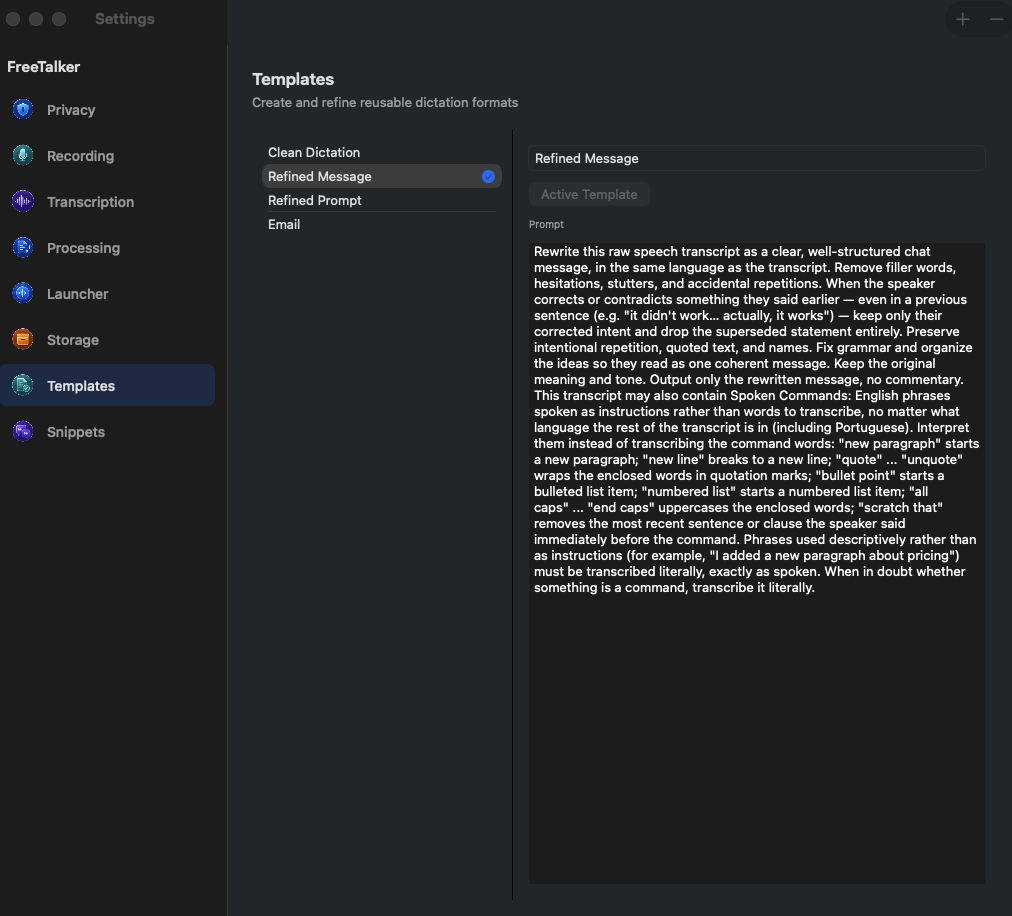
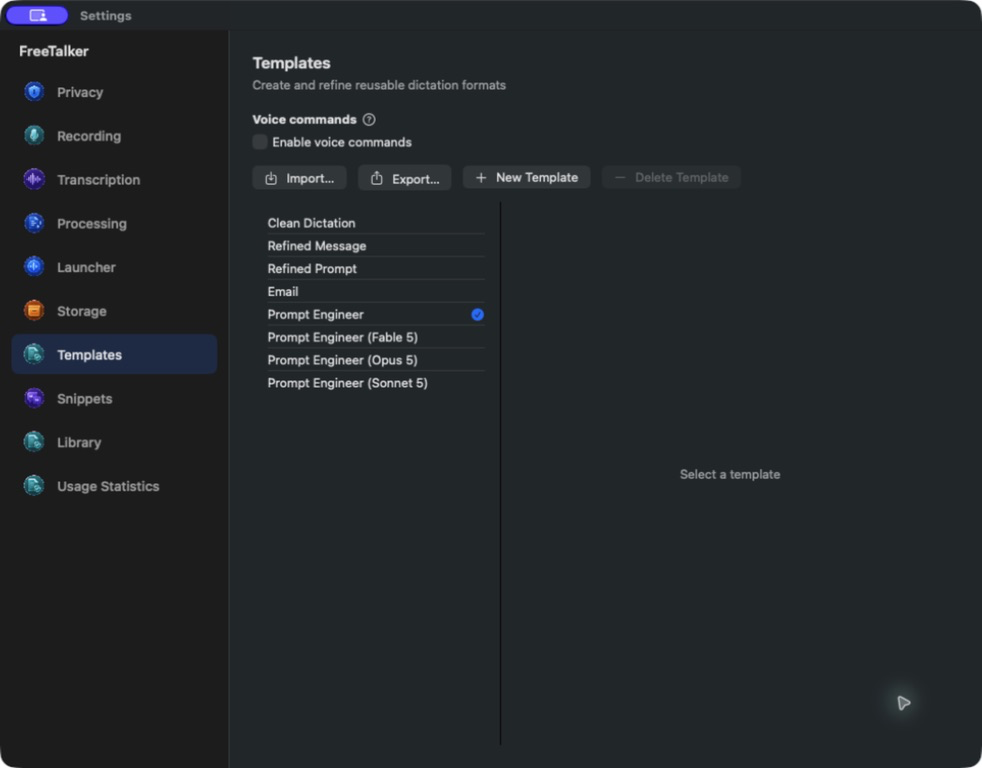
wip(docs): README rewording and refreshed settings screenshots
Uncommitted work found in the superconductor worktree
(~/.superconductor/worktrees/freetalker/sc-quantum-helium-b253), last touched
30 July: README.md reworded (21 insertions, 18 deletions) and five settings
screenshots regenerated.

Committed so the worktree could be removed without destroying it. Not merged
and not reviewed — its branch docs/app-settings-documentation was already
merged as PR #27, so this is work that came after and stopped.

Claude-Session: https://claude.ai/code/session_01PLr5Fpmmsx7AArRSA85K7a

diff --git a/README.md b/README.md
@@ -143,7 +143,7 @@ cleanup can't remove the model currently serving dictation. WhisperKit shares mo
 under `~/Documents/huggingface`.
 
 <p align="center">
-  <img src="docs/screenshots/settings-transcription.png" alt="Settings > Transcription showing the mic picker, noise reduction, WhisperKit vs Cloud engine toggle, model list, live preview, and vocabulary" width="700">
+  <img src="docs/screenshots/settings-transcription.png" alt="Settings > Transcription showing microphone and noise controls, the WhisperKit versus Cloud engine toggle, dictation languages, and the speech model list" width="700">
 </p>
 
 ## Permissions walkthrough
@@ -175,7 +175,7 @@ FreeTalker from the relevant Privacy & Security list, add the current app
 bundle again, enable it, and relaunch.
 
 <p align="center">
-  <img src="docs/screenshots/settings-privacy.png" alt="Settings > Privacy showing granted permissions and the local-only text context picker" width="700">
+  <img src="docs/screenshots/settings-privacy.png" alt="Settings > Privacy showing granted permissions, Permission Diagnosis, and the local-only Text context picker" width="700">
 </p>
 
 ## Settings
@@ -254,8 +254,8 @@ explanation; the same explanation is available as a hover tip.
   <img src="docs/screenshots/recording-hud.png" alt="FreeTalker recording HUD during hands-free recording, showing elapsed time, lock, context, cancel/done, Raw, language selectors, and active template" width="600">
 </p>
 
-- Menu bar icon → pick the **Active Template** (Clean Dictation, Refined Message, Refined
-  Prompt, Email — editable in Settings → Templates).
+- Menu bar icon → pick the **Active Template** (including Clean Dictation, Refined Message,
+  Refined Prompt, Email, and the Prompt Engineer variants — editable in Settings → Templates).
 - Hold **Right-⌥**, speak (English or Portuguese, auto-detected), release. A small pill HUD
   shows "Recording…" then "Processing…". Turn on **Live preview while recording** in
   Settings → Transcription and the HUD streams the transcript as you speak,
@@ -308,9 +308,10 @@ be explicitly resolved (English, via the language pin or an App Rule) at the mom
 recording; leaving language on **Auto** never streams, since there's no known language to type in
 yet. Cloud STT, Scratchpad dictation, and secure fields (password inputs) don't stream either —
 all of these fall back silently to today's batch behavior: no partial typing, refined text pasted
-once you stop, unchanged from before this feature existed. Tapping a one-shot **EN**/**PT**
-language override on the Recording Panel mid-recording also falls back to batch for the rest of
-that Recording, rather than trying to restart streaming under the new language.
+once you stop, unchanged from before this feature existed. Choosing a one-shot **English** or
+**Portuguese** language override from the **Speak** menu on the Recording Panel mid-recording
+also falls back to batch for the rest of that Recording, rather than trying to restart
+streaming under the new language.
 
 Safety comes first. Streaming only starts when the focused field has an empty, collapsed cursor —
 never over a selection, since typing over one would silently destroy it with no way to restore it
@@ -368,16 +369,18 @@ instead of replacing newer edits.
 
 ## Templates
 
-Four built-ins ship with the app: **Clean Dictation** (default), **Refined Message**,
-**Refined Prompt**, and **Email**. Every Template strips disfluencies ("um", "uh", "hmm") and
-collapses self-corrections — "I'll do A… actually, I'll do B" becomes "I'll do B" — even when
-the correction spans multiple sentences.
+Eight built-ins ship with the app: **Clean Dictation** (default), **Refined Message**,
+**Refined Prompt**, **Email**, **Prompt Engineer**, **Prompt Engineer (Fable 5)**,
+**Prompt Engineer (Opus 5)**, and **Prompt Engineer (Sonnet 5)**. The four general-purpose
+dictation templates strip disfluencies ("um", "uh", "hmm") and collapse self-corrections —
+"I'll do A… actually, I'll do B" becomes "I'll do B" — even when the correction spans multiple
+sentences.
 
 A built-in Template you've never edited quietly picks up improved prompts as the app evolves;
 once you edit one yourself, it's yours and is never touched automatically.
 
 <p align="center">
-  <img src="docs/screenshots/settings-templates.png" alt="Settings > Templates showing the template list and the Refined Message prompt editor" width="700">
+  <img src="docs/screenshots/settings-templates.png" alt="Settings > Templates showing the Voice commands toggle, Import, Export, New Template, and Delete Template controls, plus eight built-in templates" width="700">
 </p>
 
 ### Spoken Commands
@@ -427,7 +430,7 @@ post-processing requests; when cloud post-processing is configured, FreeTalker o
 ### Voice Edit and snippets
 
 <p align="center">
-  <img src="docs/screenshots/settings-recording.png" alt="Settings > Recording showing the push-to-talk hold key, Insert Last Dictation key, Voice Edit key, and hands-free auto-stop cap" width="700">
+  <img src="docs/screenshots/settings-recording.png" alt="Settings > Recording showing the push-to-talk, Insert Last Dictation, Voice Edit, Dictation History, and Correct Last Dictation keys, correction watcher, and hands-free auto-stop cap" width="700">
 </p>
 
 Assign a **Voice Edit key** in Settings → Recording, select editable text, and
@@ -529,9 +532,9 @@ Limitations, plainly:
 The menu bar has an **Auto / English / Portuguese** pin below the Template list,
 forcing the transcript language instead of auto-detecting it. Settings →
 Processing → **App Rules** can override the pin per app, alongside
-its Template rule. The Recording Panel's EN/PT buttons (below) add a one-shot
-override on top of both, good for a single dictation without changing any
-standing setting. Precedence, most to least specific: **one-shot > app rule >
+its Template rule. The Recording Panel's **Speak** menu (below) adds a one-shot
+language override on top of both, good for a single dictation without changing
+any standing setting. Precedence, most to least specific: **one-shot > app rule >
 pin > auto**.
 
 ## Recording Panel
@@ -544,8 +547,8 @@ of a plain pill:
 - **Raw** stops and pastes the transcript verbatim, skipping post-processing entirely; the
   Library entry is filed under the reserved Template name "Raw Transcript" rather than whatever
   Template was active.
-- **EN** / **PT** set a one-shot language override for this recording only (tap the active one
-  again to clear it) — see "Language" above for how it fits with the pin and App Rules.
+- The **Speak** menu sets a one-shot language override for this recording only (choose **Auto**
+  to clear it) — see "Language" above for how it fits with the pin and App Rules.
 - The Template name button cycles the Active Template without leaving the recording.
 - **Lock** (only shown while not already locked) switches a held push-to-talk key into
   hands-free recording without releasing it — the elapsed/cap readout replaces the Lock button
